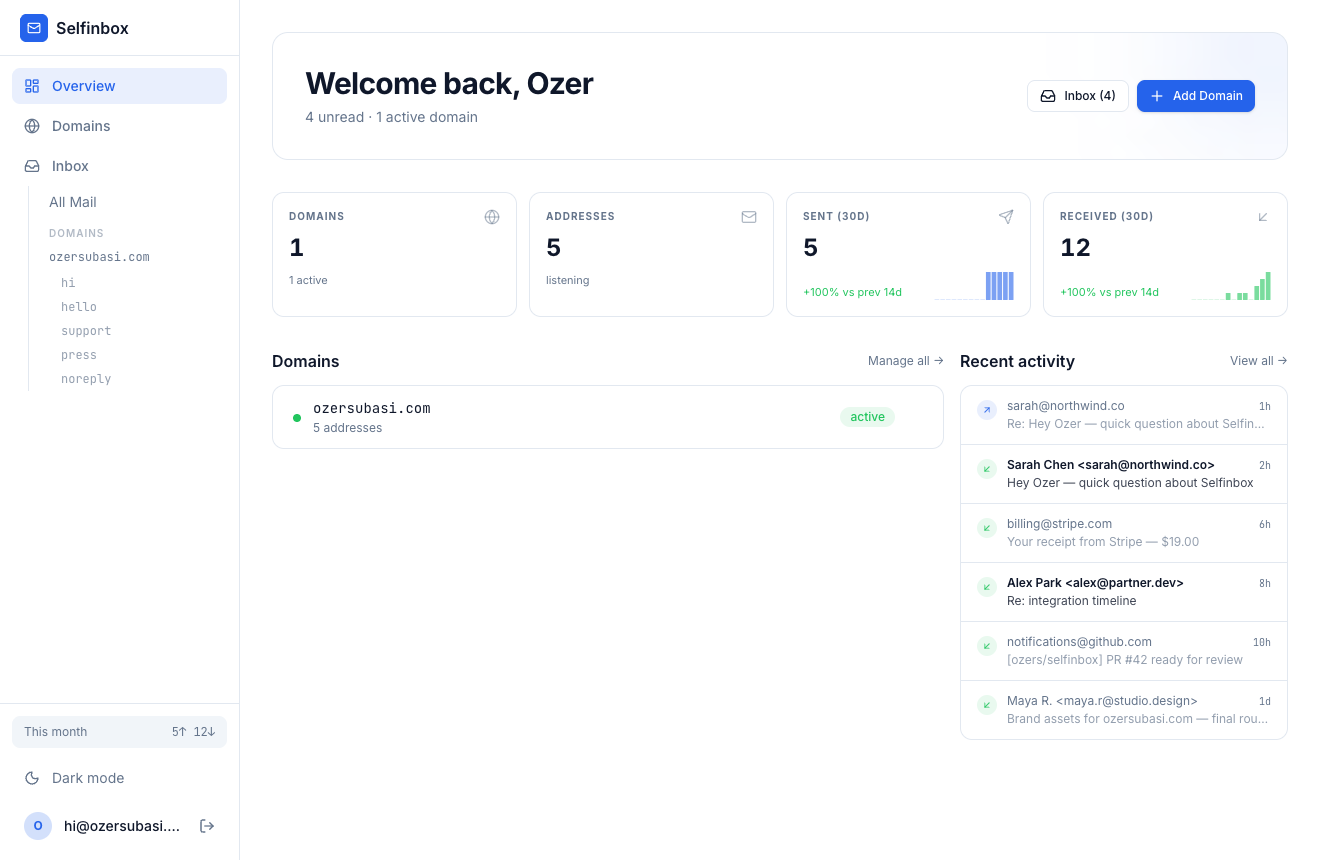
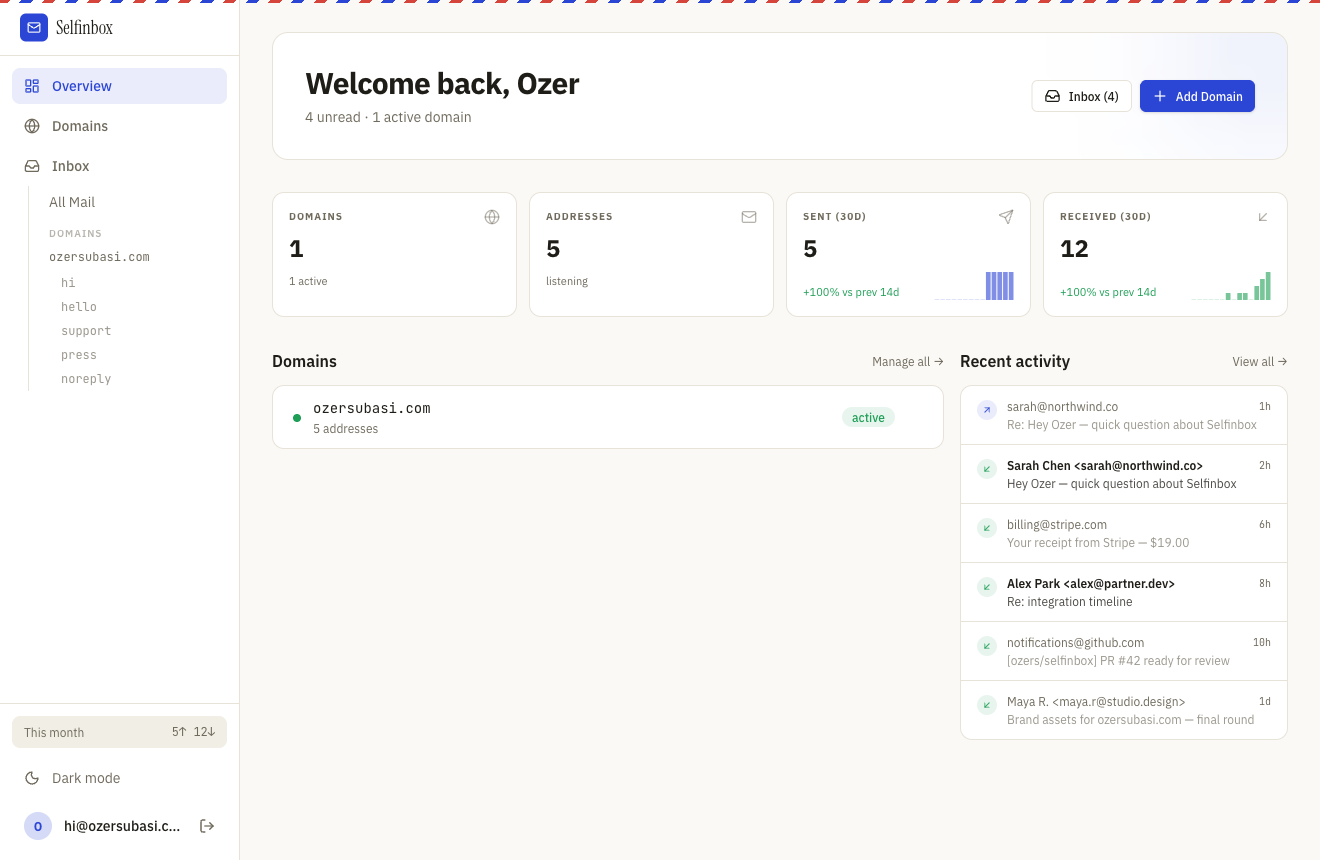
feat(web): airmail visual identity redesign
New design language across landing and app: Instrument Serif display
headings, warm paper backgrounds, periwinkle primary, airmail stripe
accents (nav, cards, footer), stamp-style badges, and a dotted paper
grid on the hero.

- Landing: serif hero with italic accent, stamp badge, airmail-striped
  DNS card, redesigned step chips and section headings
- App: denser inbox rows, serif wordmark in sidebar/auth/nav
- Fonts: add Instrument Serif + IBM Plex Sans
- Regenerate all screenshots (landing carousel + README images) at
  1320x860 in the new design, demo banner stripped

diff --git a/apps/web/src/pages/landing.tsx b/apps/web/src/pages/landing.tsx
@@ -63,7 +63,7 @@ function Step({
       className="relative rounded-xl border border-border bg-card p-6 sm:p-7"
     >
       <div className="flex items-start gap-4">
-        <div className="flex h-9 w-9 flex-shrink-0 items-center justify-center rounded-full bg-primary/10 font-mono text-sm font-bold text-primary">
+        <div className="flex h-9 w-9 flex-shrink-0 items-center justify-center rounded-md border border-dashed border-primary/40 bg-primary/5 font-mono text-sm font-bold text-primary">
           {num}
         </div>
         <div className="min-w-0 flex-1">
@@ -182,15 +182,18 @@ export default function LandingPage() {
 
   return (
     <div className="min-h-screen bg-background text-foreground">
+      {/* Airmail brand stripe */}
+      <div className="airmail-stripe fixed inset-x-0 top-0 z-[60] h-[3px]" aria-hidden="true" />
+
       {/* ── Navbar ────────────────────────────────────────────────── */}
-      <nav className="fixed top-0 left-0 right-0 z-50 border-b border-border bg-background/80 backdrop-blur-md">
+      <nav className="fixed top-[3px] left-0 right-0 z-50 border-b border-border bg-background/80 backdrop-blur-md">
         <div className="mx-auto flex max-w-6xl items-center justify-between px-6 py-3">
           {/* Logo */}
           <Link to="/" className="flex items-center gap-2.5">
-            <div className="flex h-8 w-8 items-center justify-center rounded-lg bg-primary">
+            <div className="flex h-8 w-8 items-center justify-center rounded-md bg-primary">
               <Mail className="h-4 w-4 text-primary-foreground" />
             </div>
-            <span className="text-lg font-bold text-foreground">Selfinbox</span>
+            <span className="font-display text-xl text-foreground">Selfinbox</span>
           </Link>
 
           {/* Center links (md+) */}
@@ -261,17 +264,18 @@ export default function LandingPage() {
       </nav>
 
       {/* ── Hero ──────────────────────────────────────────────────── */}
-      <section className="relative pt-32 pb-20 px-6">
-        {/* Glow */}
+      <section className="paper-grid relative pt-32 pb-20 px-6">
+        {/* Soft glow + fade the grid toward the bottom */}
         <div className="pointer-events-none absolute inset-x-0 top-0 h-[600px] bg-primary/5 blur-[120px]" />
+        <div className="pointer-events-none absolute inset-x-0 bottom-0 h-40 bg-gradient-to-b from-transparent to-background" />
 
         <div className="relative mx-auto max-w-4xl text-center">
-          {/* Badge */}
+          {/* Stamp-style badge */}
           <motion.div
             initial={{ opacity: 0, y: 16 }}
             animate={{ opacity: 1, y: 0 }}
             transition={{ duration: 0.5 }}
-            className="mb-6 inline-flex items-center gap-2 rounded-full border border-border bg-card px-4 py-1.5 text-sm text-muted-foreground"
+            className="mb-6 inline-flex items-center gap-2 rounded-md border border-dashed border-muted-foreground/40 bg-card px-4 py-1.5 font-mono text-xs uppercase tracking-widest text-muted-foreground"
           >
             <span className="relative flex h-2 w-2">
               <span className="absolute inline-flex h-full w-full animate-ping rounded-full bg-status-active opacity-75" />
@@ -285,11 +289,11 @@ export default function LandingPage() {
             initial={{ opacity: 0, y: 16 }}
             animate={{ opacity: 1, y: 0 }}
             transition={{ duration: 0.5, delay: 0.1 }}
-            className="text-4xl font-bold tracking-tight sm:text-5xl lg:text-6xl"
+            className="font-display text-5xl tracking-tight sm:text-6xl lg:text-7xl"
           >
             Run your own email service{" "}
             <br className="hidden sm:block" />
-            on <span className="text-primary">AWS</span> in an afternoon.
+            on AWS, <em className="text-primary">in an afternoon.</em>
           </motion.h1>
 
           {/* Subtitle */}
@@ -316,13 +320,14 @@ export default function LandingPage() {
             <HeroCTA className="w-full max-w-md" />
           </motion.div>
 
-          {/* DNS Preview Card */}
+          {/* DNS Preview Card — styled like the back of an airmail envelope */}
           <motion.div
             initial={{ opacity: 0, y: 16 }}
             animate={{ opacity: 1, y: 0 }}
             transition={{ duration: 0.5, delay: 0.4 }}
             className="mt-14 mx-auto max-w-2xl rounded-xl border border-border bg-card overflow-hidden shadow-sm"
           >
+            <div className="airmail-stripe h-[3px]" aria-hidden="true" />
             {/* Terminal header */}
             <div className="flex items-center gap-1.5 border-b border-border bg-muted px-4 py-2.5">
               <span className="h-2.5 w-2.5 rounded-full bg-status-error/60" />
@@ -450,7 +455,7 @@ export default function LandingPage() {
             transition={{ duration: 0.5 }}
             className="text-center"
           >
-            <h2 className="text-3xl font-bold">From zero to live, step by step</h2>
+            <h2 className="font-display text-4xl sm:text-5xl">From zero to live, <em className="text-primary">step by step</em></h2>
             <p className="mt-3 text-muted-foreground">
               Assumes nothing — no AWS account, no Postgres, no shell tools. Plan ~1 hour the first time.
             </p>
@@ -554,7 +559,7 @@ aws ses verify-domain-dkim     --domain yourdomain.com`}</Snippet>
             transition={{ duration: 0.5 }}
             className="text-center"
           >
-            <h2 className="text-3xl font-bold">Frequently Asked Questions</h2>
+            <h2 className="font-display text-4xl sm:text-5xl">Frequently asked questions</h2>
           </motion.div>
 
           <div className="mt-12 space-y-3">
@@ -628,14 +633,15 @@ aws ses verify-domain-dkim     --domain yourdomain.com`}</Snippet>
       </section>
 
       {/* ── Footer ────────────────────────────────────────────────── */}
-      <footer className="border-t border-border bg-background px-6 py-12">
+      <div className="airmail-stripe h-[3px]" aria-hidden="true" />
+      <footer className="bg-background px-6 py-12">
         <div className="mx-auto flex max-w-6xl flex-col items-center gap-6 text-center sm:flex-row sm:justify-between sm:text-left">
           <div className="flex items-center gap-2.5">
-            <div className="flex h-8 w-8 items-center justify-center rounded-lg bg-primary">
+            <div className="flex h-8 w-8 items-center justify-center rounded-md bg-primary">
               <Mail className="h-4 w-4 text-primary-foreground" />
             </div>
             <div>
-              <span className="text-lg font-bold text-foreground">Selfinbox</span>
+              <span className="font-display text-xl text-foreground">Selfinbox</span>
               <p className="text-xs text-muted-foreground">Self-hosted custom-domain email on AWS SES.</p>
             </div>
           </div>

diff --git a/apps/web/src/index.css b/apps/web/src/index.css
@@ -7,8 +7,10 @@
 @custom-variant dark (&:where(.dark, .dark *));
 
 @theme {
-  --font-sans: "Inter Variable", "Inter", system-ui, -apple-system, sans-serif;
+  --font-sans: "IBM Plex Sans", system-ui, -apple-system, sans-serif;
   --font-mono: "JetBrains Mono", ui-monospace, monospace;
+  /* Display serif — landing headlines and editorial accents only. */
+  --font-display: "Instrument Serif", Georgia, serif;
 
   --color-background: var(--bg);
   --color-foreground: var(--fg);
@@ -23,49 +25,55 @@
   --color-secondary-foreground: var(--secondary-fg);
   --color-destructive: var(--destructive);
   --color-accent: var(--accent);
+  /* Airmail red — brand accent for stripes and stamps, NOT for errors. */
+  --color-stamp: var(--stamp);
 
   --color-status-active: var(--status-active);
   --color-status-pending: var(--status-pending);
   --color-status-error: var(--status-error);
 }
 
+/* ── Light: warm paper ─────────────────────────────────────────────── */
 :root {
-  --bg: #ffffff;
-  --fg: #0f172a;
+  --bg: #faf9f5;
+  --fg: #1f1d17;
   --card: #ffffff;
-  --card-fg: #0f172a;
-  --border-color: #e2e8f0;
-  --muted: #f1f5f9;
-  --muted-fg: #64748b;
-  --primary: #2563eb;
+  --card-fg: #1f1d17;
+  --border-color: #e7e3d8;
+  --muted: #f1eee5;
+  --muted-fg: #6f6a5c;
+  --primary: #2b45d4;
   --primary-fg: #ffffff;
-  --secondary: #f1f5f9;
-  --secondary-fg: #0f172a;
-  --destructive: #ef4444;
-  --accent: #0ea5e9;
+  --secondary: #f1eee5;
+  --secondary-fg: #1f1d17;
+  --destructive: #c73a30;
+  --accent: #0e7c86;
+  --stamp: #d5453c;
 
-  --status-active: #22c55e;
-  --status-pending: #f59e0b;
-  --status-error: #ef4444;
+  --status-active: #1e9e56;
+  --status-pending: #cf8b06;
+  --status-error: #c73a30;
 }
 
+/* ── Dark: sorting facility at night (warm charcoal, not slate) ────── */
 .dark {
-  --bg: #0b0f1a;
-  --fg: #f1f5f9;
-  --card: #111827;
-  --card-fg: #f1f5f9;
-  --border-color: #1e293b;
-  --muted: #1e293b;
-  --muted-fg: #94a3b8;
-  --primary: #3b82f6;
-  --primary-fg: #ffffff;
-  --secondary: #1e293b;
-  --secondary-fg: #f1f5f9;
-  --destructive: #ef4444;
-  --accent: #38bdf8;
+  --bg: #141310;
+  --fg: #eceade;
+  --card: #1c1a16;
+  --card-fg: #eceade;
+  --border-color: #2c2922;
+  --muted: #262319;
+  --muted-fg: #9b957f;
+  --primary: #7189ff;
+  --primary-fg: #10122b;
+  --secondary: #262319;
+  --secondary-fg: #eceade;
+  --destructive: #e2685f;
+  --accent: #4cc4cf;
+  --stamp: #e2685f;
 
   --status-active: #4ade80;
-  --status-pending: #fbbf24;
+  --status-pending: #eab308;
   --status-error: #f87171;
 }
 
@@ -80,6 +88,28 @@ body {
   color: var(--fg);
   -webkit-font-smoothing: antialiased;
   -moz-osx-font-smoothing: grayscale;
+}
+
+/* ── Airmail stripe — the brand mark. A thin band of alternating
+      red/blue diagonal stripes, like the border of an airmail envelope.
+      Use as a 3-4px tall <div> or border element. ─────────────────── */
+.airmail-stripe {
+  background: repeating-linear-gradient(
+    -45deg,
+    var(--stamp) 0 8px,
+    transparent 8px 16px,
+    var(--primary) 16px 24px,
+    transparent 24px 32px
+  );
+}
+
+/* Dotted "ledger paper" texture for landing section backgrounds. */
+.paper-grid {
+  background-image: radial-gradient(
+    color-mix(in srgb, var(--fg) 7%, transparent) 1px,
+    transparent 1px
+  );
+  background-size: 24px 24px;
 }
 
 @keyframes status-pulse {

diff --git a/apps/web/src/components/layouts/dashboard-layout.tsx b/apps/web/src/components/layouts/dashboard-layout.tsx
@@ -68,6 +68,8 @@ export function DashboardLayout() {
 
   return (
     <div className="flex min-h-screen bg-background">
+      {/* Airmail brand stripe across the very top of the viewport */}
+      <div className="airmail-stripe fixed inset-x-0 top-0 z-[60] h-[3px]" aria-hidden="true" />
       {sidebarOpen && (
         <div className="fixed inset-0 z-40 bg-black/50 lg:hidden" onClick={() => setSidebarOpen(false)} />
       )}
@@ -82,7 +84,7 @@ export function DashboardLayout() {
             <div className="flex h-7 w-7 items-center justify-center rounded-md bg-primary">
               <Mail className="h-3.5 w-3.5 text-primary-foreground" />
             </div>
-            <span className="font-semibold text-foreground">{BRAND_NAME}</span>
+            <span className="font-display text-lg text-foreground">{BRAND_NAME}</span>
           </Link>
           <button className="lg:hidden" onClick={() => setSidebarOpen(false)} aria-label="Close menu">
             <X className="h-5 w-5 text-muted-foreground" />
@@ -214,7 +216,7 @@ export function DashboardLayout() {
             <div className="flex h-6 w-6 items-center justify-center rounded-md bg-primary">
               <Mail className="h-3 w-3 text-primary-foreground" />
             </div>
-            <span className="text-sm font-semibold text-foreground">{BRAND_NAME}</span>
+            <span className="font-display text-base text-foreground">{BRAND_NAME}</span>
           </Link>
         </header>
 

diff --git a/apps/web/src/components/ui/dialog.tsx b/apps/web/src/components/ui/dialog.tsx
@@ -28,12 +28,31 @@ export function Dialog({
 }: DialogProps) {
   const panelRef = useRef<HTMLDivElement>(null)
 
-  // Close on Escape, and move focus into the panel when it opens so keyboard
-  // users land inside the dialog instead of behind it.
+  // Close on Escape, move focus into the panel when it opens, and trap Tab
+  // inside the panel so keyboard users can't reach the page behind the modal.
   useEffect(() => {
     if (!open) return
     const onKey = (e: KeyboardEvent) => {
-      if (e.key === "Escape") onClose()
+      if (e.key === "Escape") {
+        onClose()
+        return
+      }
+      if (e.key === "Tab" && panelRef.current) {
+        const focusables = panelRef.current.querySelectorAll<HTMLElement>(
+          'button, [href], input, select, textarea, [tabindex]:not([tabindex="-1"])'
+        )
+        if (focusables.length === 0) return
+        const first = focusables[0]
+        const last = focusables[focusables.length - 1]
+        const active = document.activeElement
+        if (e.shiftKey && (active === first || active === panelRef.current)) {
+          e.preventDefault()
+          last.focus()
+        } else if (!e.shiftKey && active === last) {
+          e.preventDefault()
+          first.focus()
+        }
+      }
     }
     document.addEventListener("keydown", onKey)
     panelRef.current?.focus()

diff --git a/apps/web/src/components/layouts/auth-layout.tsx b/apps/web/src/components/layouts/auth-layout.tsx
@@ -6,13 +6,14 @@ const BRAND_NAME = (import.meta.env.VITE_BRAND_NAME as string) || "Selfinbox"
 export function AuthLayout() {
   return (
     <div className="flex min-h-screen items-center justify-center bg-background px-4">
+      <div className="airmail-stripe fixed inset-x-0 top-0 h-[3px]" aria-hidden="true" />
       <div className="w-full max-w-sm">
         <div className="mb-8 flex flex-col items-center gap-2">
           <Link to="/" className="mb-4 flex items-center gap-2">
             <div className="flex h-9 w-9 items-center justify-center rounded-lg bg-primary">
               <Mail className="h-4.5 w-4.5 text-primary-foreground" />
             </div>
-            <span className="text-xl font-semibold text-foreground">{BRAND_NAME}</span>
+            <span className="font-display text-2xl text-foreground">{BRAND_NAME}</span>
           </Link>
         </div>
         <Outlet />

diff --git a/apps/web/src/components/ui/empty-state.tsx b/apps/web/src/components/ui/empty-state.tsx
@@ -12,7 +12,8 @@ interface EmptyStateProps {
 export function EmptyState({ icon: Icon, title, description, action, className }: EmptyStateProps) {
   return (
     <div className={cn("flex flex-col items-center justify-center rounded-xl border border-dashed border-border py-16 text-center", className)}>
-      <div className="flex h-12 w-12 items-center justify-center rounded-full bg-muted">
+      {/* Postmark-style dashed ring around the icon */}
+      <div className="flex h-14 w-14 items-center justify-center rounded-full border-2 border-dashed border-muted-foreground/30 bg-muted/50">
         <Icon className="h-6 w-6 text-muted-foreground" />
       </div>
       <h3 className="mt-4 text-sm font-semibold text-foreground">{title}</h3>

diff --git a/apps/web/src/components/ui/input.tsx b/apps/web/src/components/ui/input.tsx
@@ -6,7 +6,7 @@ const Input = forwardRef<HTMLInputElement, InputHTMLAttributes<HTMLInputElement>
     return (
       <input
         className={cn(
-          "flex h-9 w-full rounded-lg border border-border bg-card px-3 py-2 text-sm text-foreground placeholder:text-muted-foreground focus:border-primary focus:outline-none focus:ring-2 focus:ring-primary/20 disabled:cursor-not-allowed disabled:opacity-50",
+          "flex h-9 w-full rounded-md border border-border bg-card px-3 py-2 text-sm text-foreground placeholder:text-muted-foreground focus:border-primary focus:outline-none focus:ring-2 focus:ring-primary/20 disabled:cursor-not-allowed disabled:opacity-50",
           className
         )}
         ref={ref}

diff --git a/apps/web/src/components/ui/button.tsx b/apps/web/src/components/ui/button.tsx
@@ -33,7 +33,7 @@ const Button = forwardRef<HTMLButtonElement, ButtonProps>(
     return (
       <button
         className={cn(
-          "inline-flex items-center justify-center gap-2 rounded-lg font-medium transition-all active:scale-[0.98] focus-visible:outline-none focus-visible:ring-2 focus-visible:ring-primary/50 disabled:pointer-events-none disabled:opacity-50",
+          "inline-flex items-center justify-center gap-2 rounded-md font-medium transition-all active:scale-[0.98] focus-visible:outline-none focus-visible:ring-2 focus-visible:ring-primary/50 disabled:pointer-events-none disabled:opacity-50",
           variantClasses[variant],
           sizeClasses[size],
           className

diff --git a/apps/web/src/main.tsx b/apps/web/src/main.tsx
@@ -1,6 +1,11 @@
 import { StrictMode } from 'react'
 import { createRoot } from 'react-dom/client'
-import '@fontsource-variable/inter'
+import '@fontsource/ibm-plex-sans/400.css'
+import '@fontsource/ibm-plex-sans/500.css'
+import '@fontsource/ibm-plex-sans/600.css'
+import '@fontsource/ibm-plex-sans/700.css'
+import '@fontsource/instrument-serif/400.css'
+import '@fontsource/instrument-serif/400-italic.css'
 import '@fontsource/jetbrains-mono/400.css'
 import '@fontsource/jetbrains-mono/500.css'
 import { ThemeProvider } from './lib/theme.tsx'

diff --git a/apps/web/src/pages/inbox.tsx b/apps/web/src/pages/inbox.tsx
@@ -173,7 +173,7 @@ export default function InboxPage() {
               >
                 <Link
                   to={`${linkPrefix}/inbox/${email.id}`}
-                  className={`flex items-start gap-3 px-3 py-3 hover:bg-secondary/30 transition-colors sm:items-center sm:px-4 ${
+                  className={`flex items-start gap-3 px-3 py-3 hover:bg-secondary/30 transition-colors sm:items-center sm:px-4 sm:py-2.5 ${
                     index < emails.length - 1 ? "border-b border-border/50" : ""
                   }`}
                 >

diff --git a/apps/web/src/pages/setup.tsx b/apps/web/src/pages/setup.tsx
@@ -615,6 +615,7 @@ export default function SetupPage() {
 
   return (
     <div className="relative flex min-h-screen items-center justify-center bg-background px-4 py-12">
+      <div className="airmail-stripe fixed inset-x-0 top-0 h-[3px]" aria-hidden="true" />
       <button
         onClick={toggle}
         className="absolute right-4 top-4 rounded-lg p-2 text-muted-foreground transition-colors hover:bg-muted hover:text-foreground"
